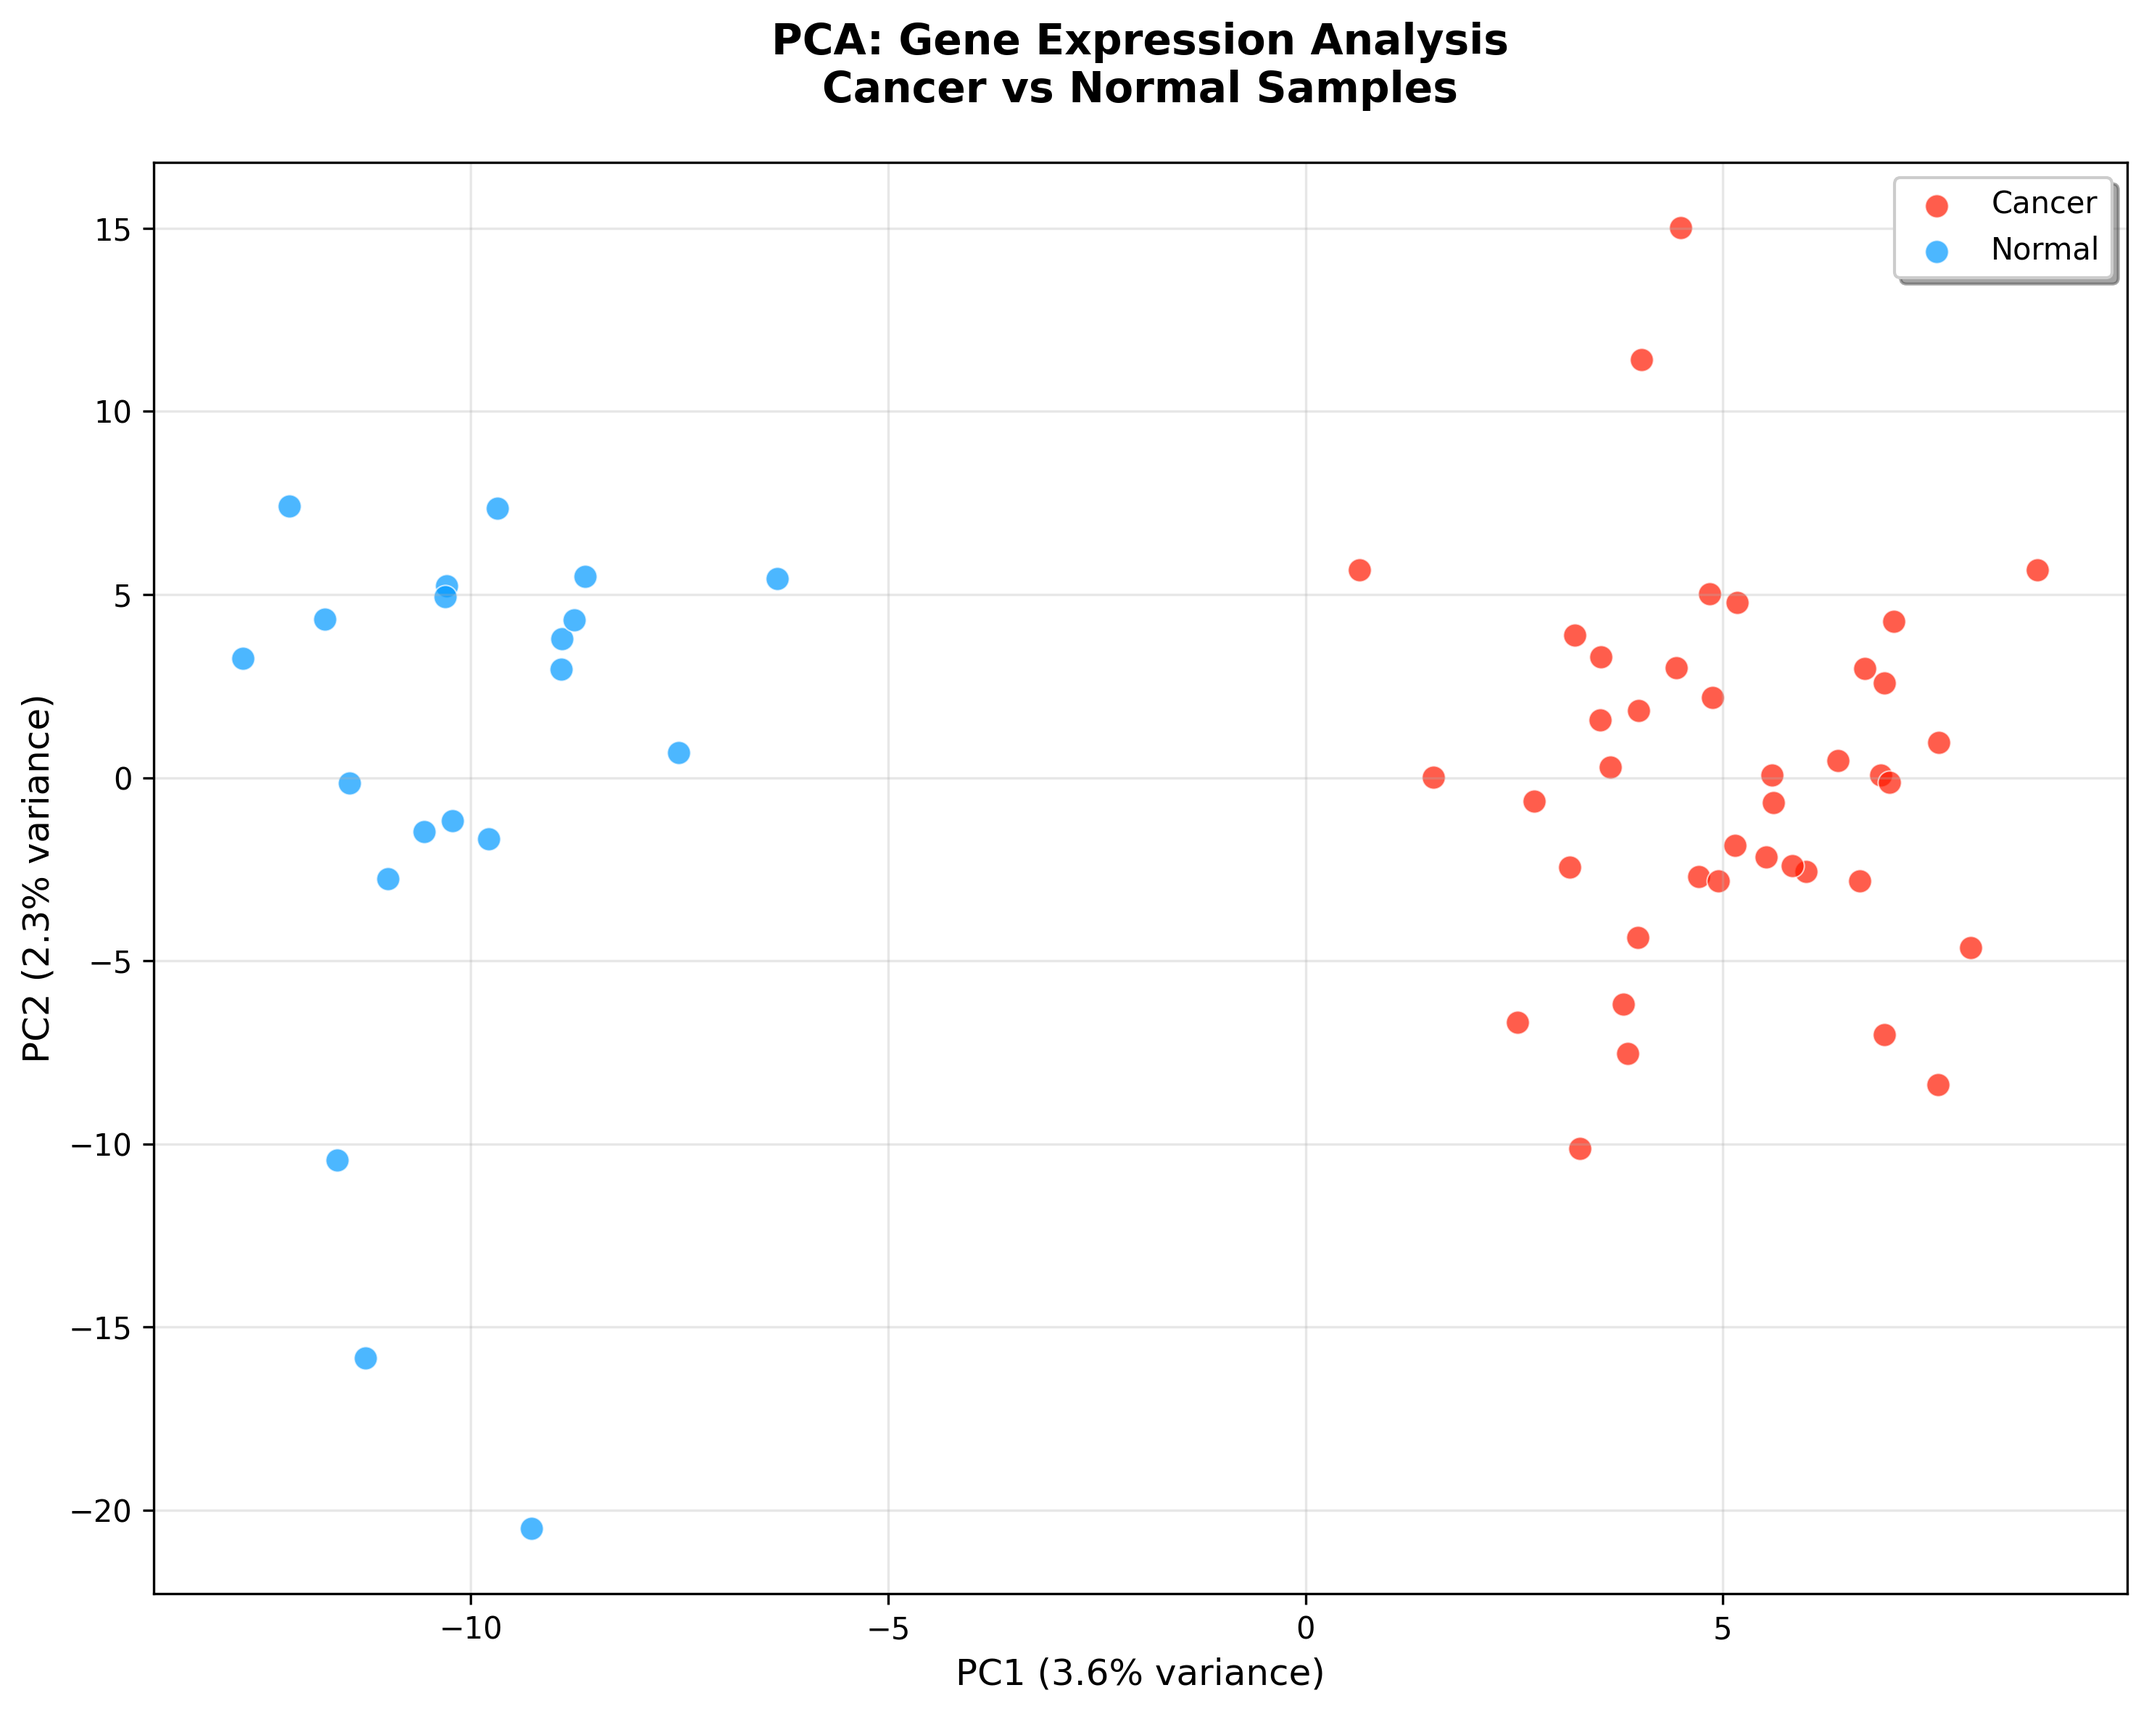
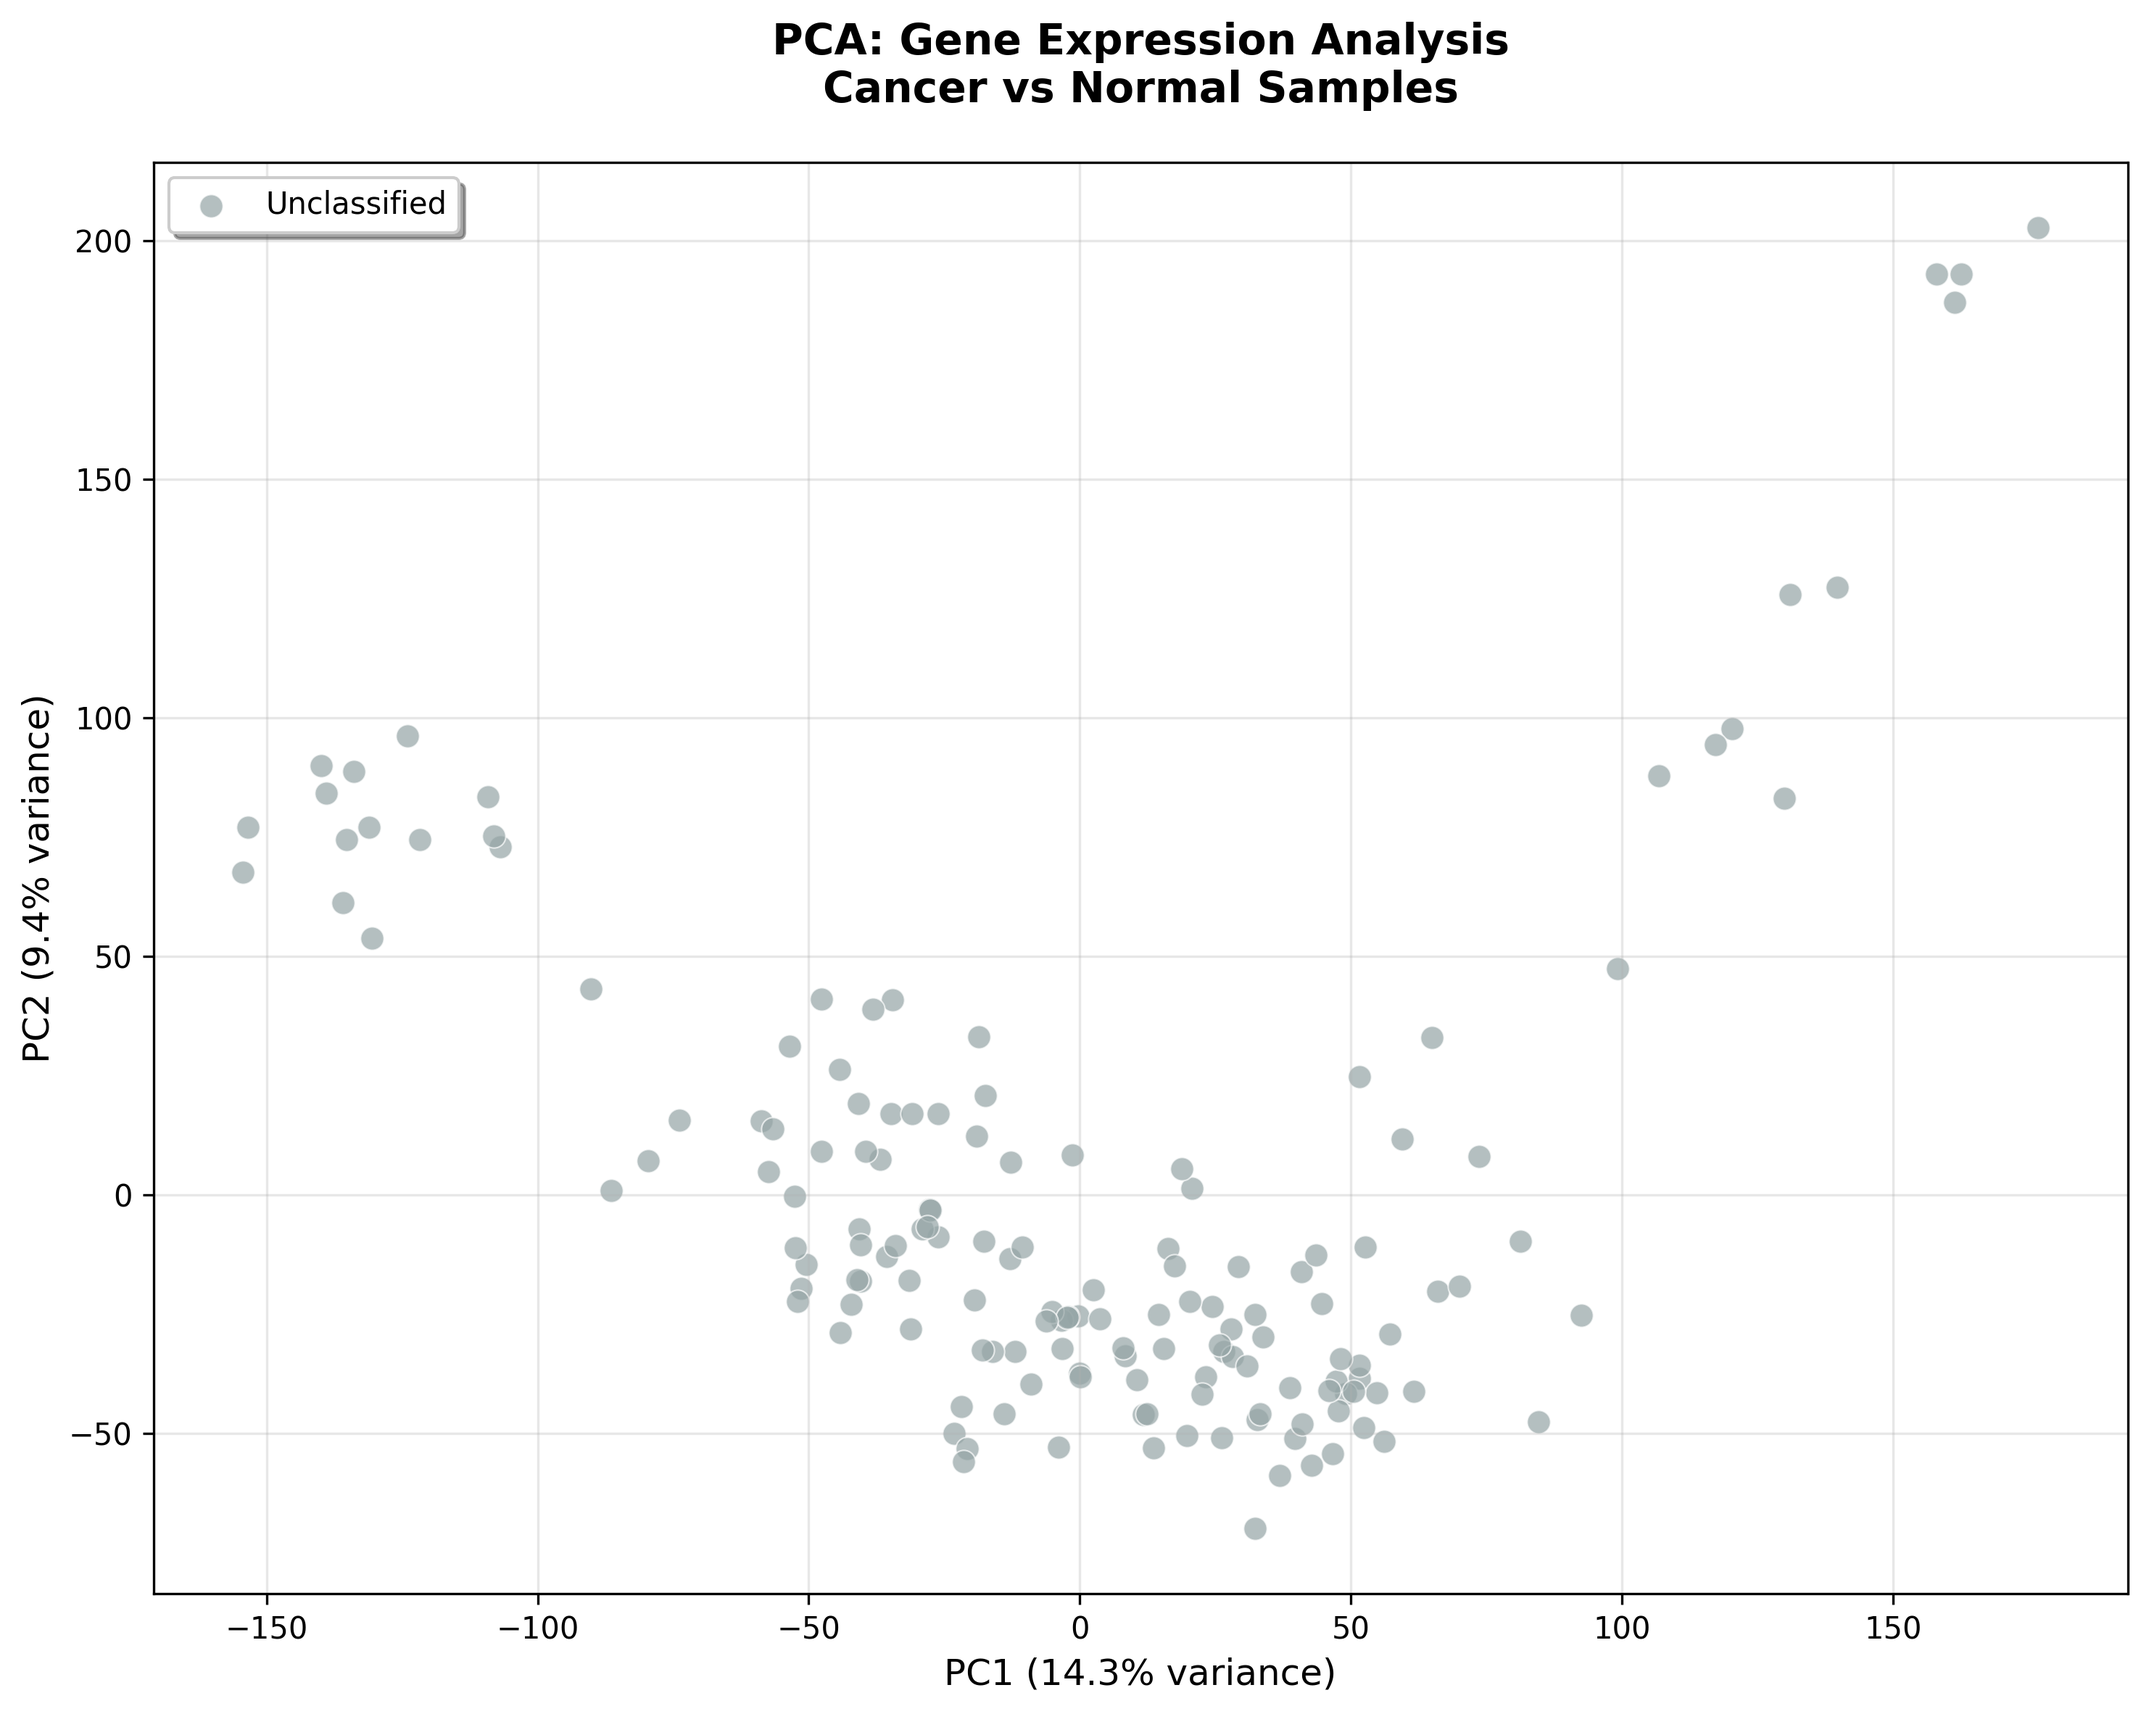
fix unclassified

diff --git a/main.py b/main.py
@@ -210,9 +210,19 @@ if __name__ == "__main__":
 
     parser = argparse.ArgumentParser(description="PCA analysis of GEO dataset")
     print("Loading data...")
-    expr, meta = load_data(expr_path="C:\Users\TARA\Desktop\gene-expression-and-visualization-in-breast-cancer\GSE45827_series_matrix.txt")
     parser.add_argument('--expression', type=str, help="Giving the path of the GEO file")
     parser.add_argument('--metadata', type=str, help= "Path of the metadata")
+
+    args = parser.parse_args()
+
+    exp_path = args.expression
+    met_path = args.metadata
+
+    
+    print(exp_path)
+
+    expr, meta = load_data(expr_path=exp_path, meta_path=met_path)
+
     
     print("\nExpression data shape:", expr.shape)
     print("Metadata shape:", meta.shape)
